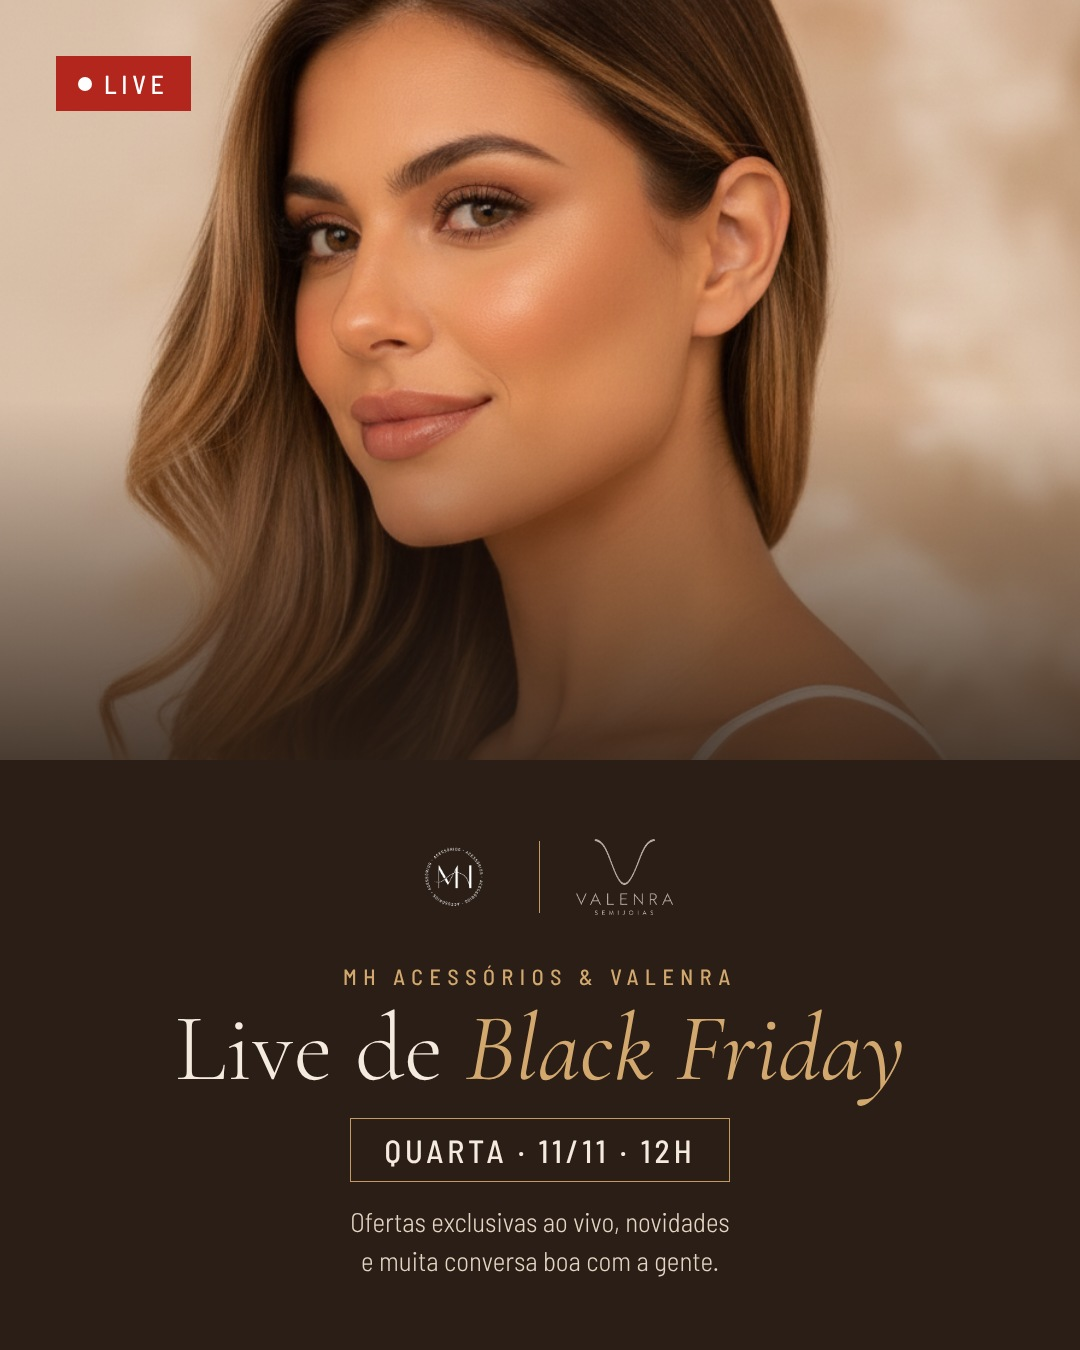
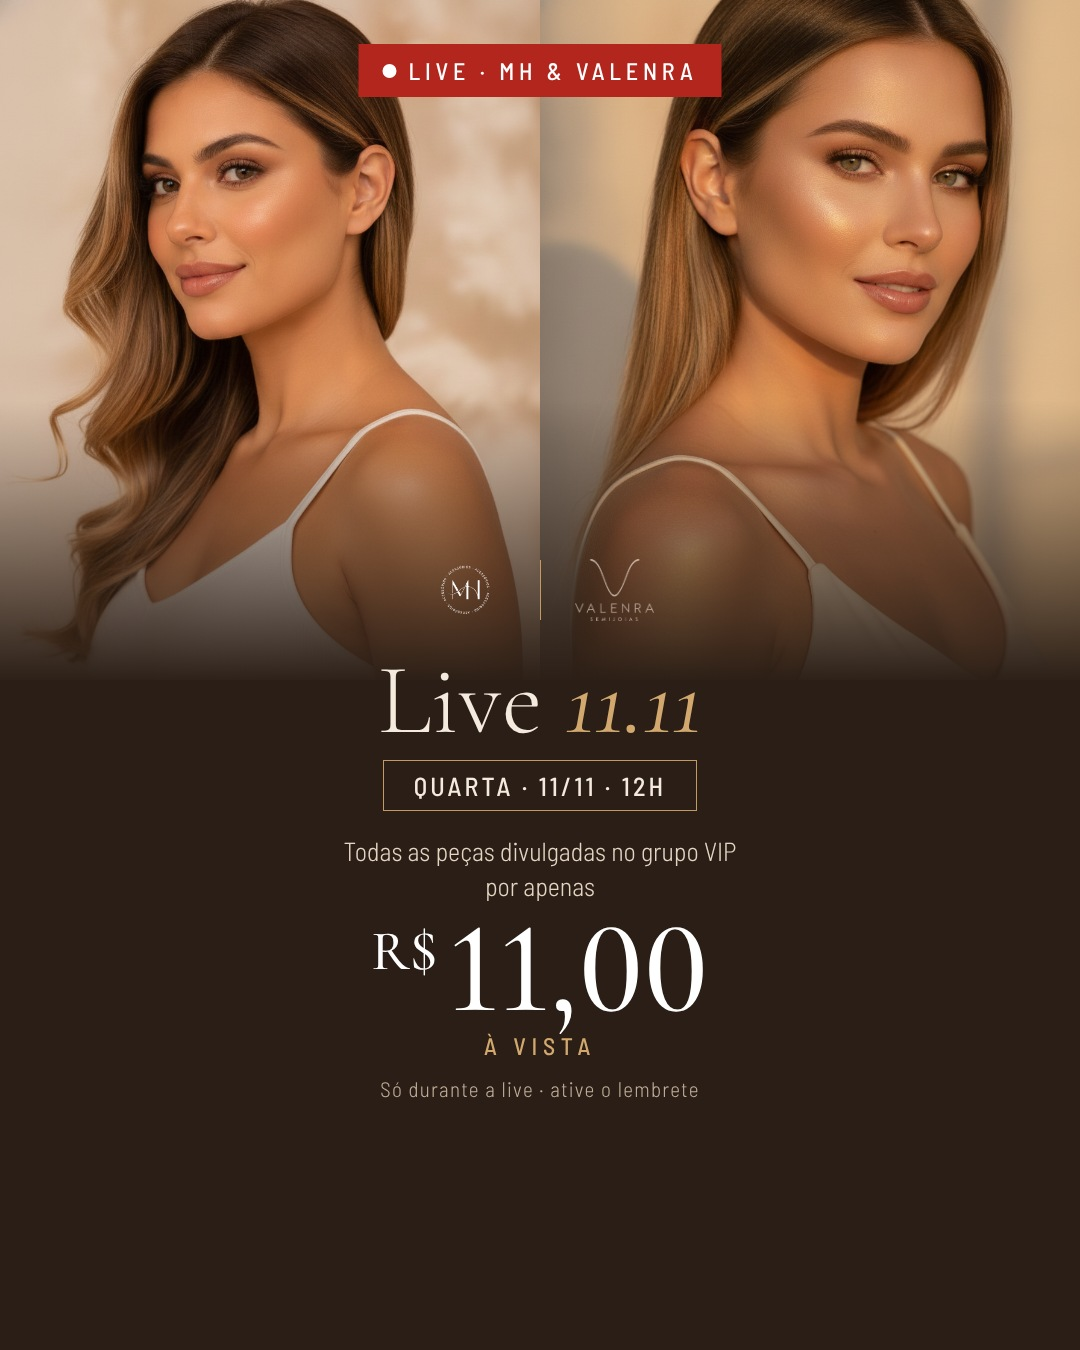
Live 11.11: artes, legenda, colaborador e lembretes
Claude-Session: https://claude.ai/code/session_01RRT5Z53RsKF2nLswJsTzLE

diff --git a/scripts/live2.js b/scripts/live2.js
@@ -1,0 +1,35 @@
+const {chromium}=require('playwright'); const fs=require('fs');
+const F='file://'+__dirname+'/node_modules/@fontsource'; const M='/home/claude/mh-automacao/marca';
+const [W,H,out,faixa]=process.argv.slice(2); const story=H>1500;
+(async()=>{const b=await chromium.launch();
+const html=`<!doctype html><html><head><meta charset="utf-8"><style>
+@font-face{font-family:Corm;font-weight:300;src:url(${F}/cormorant-garamond/files/cormorant-garamond-latin-300-normal.woff2)}
+@font-face{font-family:Corm;font-weight:500;src:url(${F}/cormorant-garamond/files/cormorant-garamond-latin-500-normal.woff2)}
+@font-face{font-family:Corm;font-weight:400;font-style:italic;src:url(${F}/cormorant-garamond/files/cormorant-garamond-latin-400-italic.woff2)}
+@font-face{font-family:Barl;font-weight:300;src:url(${F}/barlow-semi-condensed/files/barlow-semi-condensed-latin-300-normal.woff2)}
+@font-face{font-family:Barl;font-weight:500;src:url(${F}/barlow-semi-condensed/files/barlow-semi-condensed-latin-500-normal.woff2)}
+*{margin:0;padding:0;box-sizing:border-box}
+body{width:${W}px;height:${H}px;position:relative;overflow:hidden;background:#2A1E16;color:#F4EADD;font-family:Barl}
+.foto{position:absolute;top:0;height:${story?1000:680}px;width:50%;background-size:cover;background-position:center 20%}
+.f1{left:0;background-image:url('file://${M}/modelo_oficial_sem_joias.png')}.f2{right:0;background-image:url('file://${M}/valenra_modelo_sem_joias.png')}
+.grad{position:absolute;left:0;right:0;top:${story?640:400}px;height:${story?365:285}px;background:linear-gradient(to bottom,rgba(42,30,22,0),#2A1E16)}
+.live{position:absolute;top:${story?150:44}px;left:50%;transform:translateX(-50%);display:flex;align-items:center;gap:12px;background:#B3261E;color:#fff;font-weight:500;font-size:${story?32:24}px;letter-spacing:.2em;padding:12px 24px;white-space:nowrap}
+.live:before{content:'';width:14px;height:14px;border-radius:50%;background:#fff}
+.p{position:absolute;left:60px;right:60px;top:${story?860:540}px;text-align:center}
+.logos{display:flex;align-items:center;justify-content:center;gap:34px;margin-bottom:${story?28:16}px}
+.s1{width:${story?110:80}px}.s2{height:${story?86:62}px}.sep{width:1.5px;height:${story?84:60}px;background:#C29A62}
+.t{font-family:Corm;font-weight:300;font-size:${story?140:100}px;line-height:.9}.t i{font-style:italic;font-weight:400;color:#D2A86E}
+.d{display:inline-block;margin-top:${story?26:14}px;border:1.5px solid #C29A62;padding:${story?14:9}px 30px;font-weight:500;font-size:${story?36:26}px;letter-spacing:.12em}
+.o{margin-top:${story?44:22}px;font-weight:300;font-size:${story?36:26}px;line-height:1.35;color:#E4D6C3}
+.v{font-family:Corm;font-weight:500;font-size:${story?190:130}px;line-height:.95;color:#fff;font-variant-numeric:lining-nums;margin-top:${story?8:4}px}.v small{font-size:${story?80:56}px;vertical-align:top;line-height:1.6;margin-right:10px}
+.av{font-weight:500;font-size:${story?34:24}px;letter-spacing:.24em;color:#D2A86E}
+.r{margin-top:${story?40:16}px;font-weight:300;font-size:${story?28:21}px;letter-spacing:.06em;color:#BFAE98}
+</style></head><body><div class="foto f1"></div><div class="foto f2"></div><div class="grad"></div><div class="live">${faixa}</div>
+<div class="p"><div class="logos"><img class="s1" src="file://${M}/selo_branco.png"><span class="sep"></span><img class="s2" src="file://${M}/valenra_logo_claro.png"></div>
+<div class="t">Live <i>11.11</i></div>
+<div class="d">QUARTA · 11/11 · 12H</div>
+<div class="o">Todas as peças divulgadas no grupo VIP<br>por apenas</div>
+<div class="v"><small>R$</small>11,00</div><div class="av">À VISTA</div>
+<div class="r">Só durante a live · ative o lembrete</div></div></body></html>`;
+fs.writeFileSync(__dirname+'/_l2.html',html); const p=await b.newPage({viewport:{width:+W,height:+H}});
+await p.goto('file://'+__dirname+'/_l2.html'); await p.waitForTimeout(700); await p.screenshot({path:out,type:'jpeg',quality:93}); await b.close();})();

diff --git a/mh/instagram.py b/mh/instagram.py
@@ -16,13 +16,16 @@ def _ok(r):
     return r.json()
 
 
-def publicar_foto(image_url: str, legenda: str = "", story: bool = False) -> str:
+def publicar_foto(image_url: str, legenda: str = "", story: bool = False, colaboradores=None) -> str:
     tok = config.IG_ACCESS_TOKEN
     dados = {"image_url": image_url, "access_token": tok}
     if story:
         dados["media_type"] = "STORIES"  # Story não tem legenda
     else:
         dados["caption"] = legenda
+        if colaboradores:
+            import json as _j
+            dados["collaborators"] = _j.dumps(list(colaboradores))
     cont = _ok(requests.post(_api(f"{config.IG_USER_ID}/media"), data=dados, timeout=60))["id"]
     for _ in range(30):
         st = _ok(requests.get(_api(cont), params={"fields": "status_code", "access_token": tok}, timeout=30))

diff --git a/mh/publicar_avulso.py b/mh/publicar_avulso.py
@@ -1,0 +1,6 @@
+"""Publica um post avulso no feed. Uso: python -m mh.publicar_avulso <imagem> <arquivo_legenda> [colaborador ...]"""
+import sys
+from . import config, instagram
+if __name__ == "__main__":
+    img, leg = sys.argv[1], (config.RAIZ / sys.argv[2]).read_text(encoding="utf-8")
+    print("Publicado:", instagram.publicar_foto(config.url_publica(img), leg, colaboradores=sys.argv[3:] or None))
